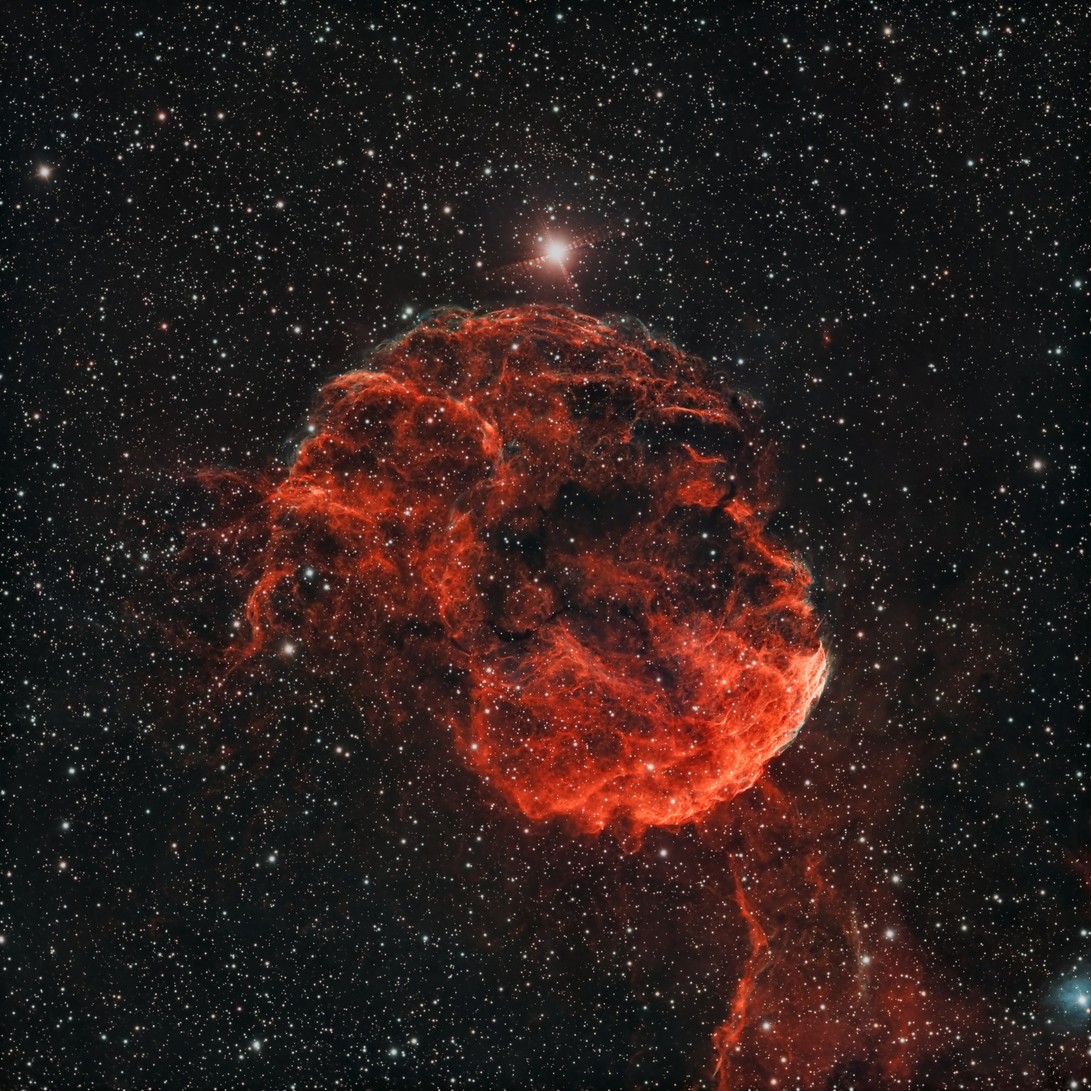
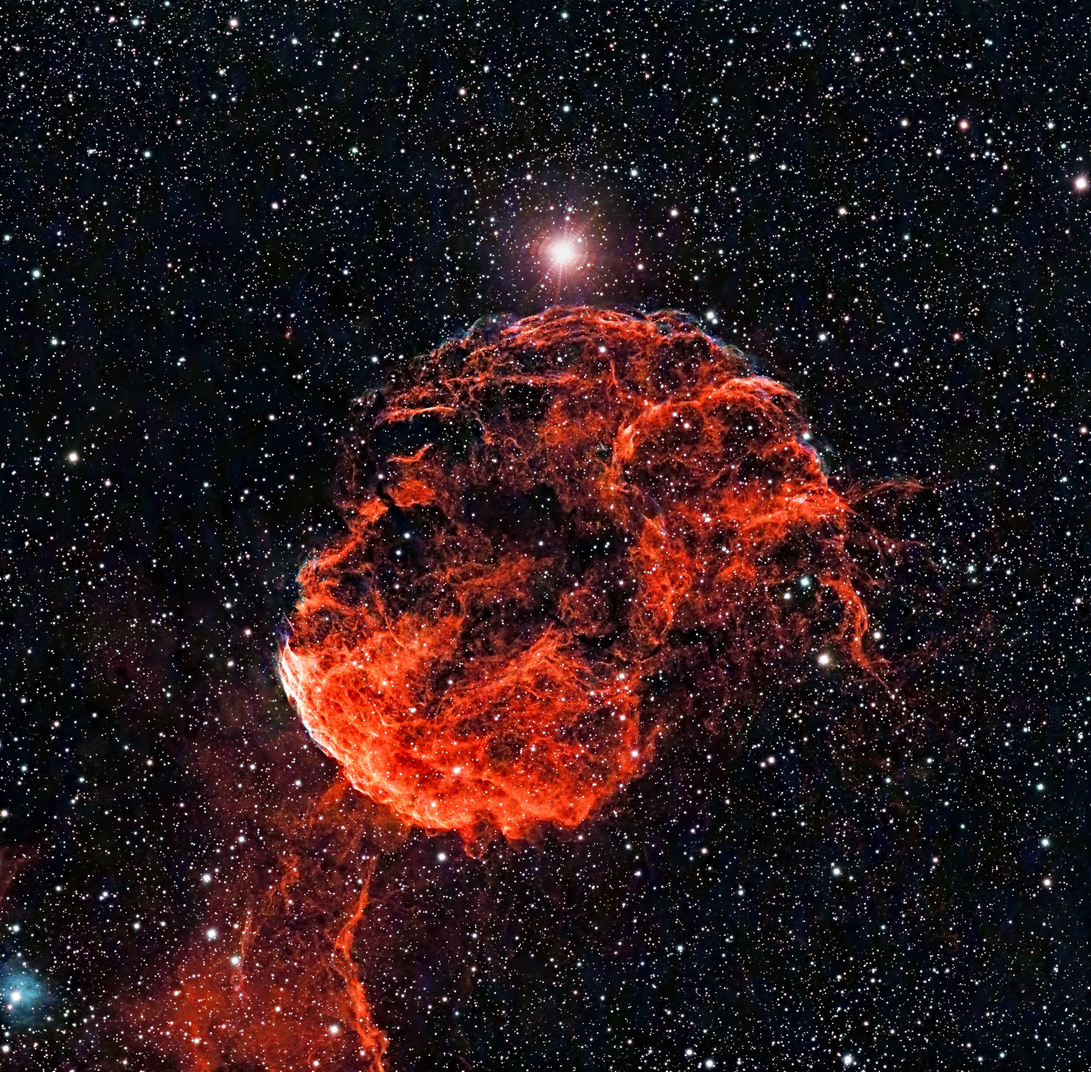
Jellyfish: 2024 combined 300 s + 120 s stack (13 h) replaces the mirrored 2022 version

diff --git a/jellyfish/index.html b/jellyfish/index.html
@@ -4,10 +4,10 @@
 <meta charset="utf-8">
 <meta name="viewport" content="width=device-width, initial-scale=1">
 <title>IC 443 · Jellyfish Nebula · Night Sky</title>
-<meta name="description" content="The expanding debris of a star that exploded in Gemini thousands of years ago, its bright eastern rim ploughing into a dense cloud.">
+<meta name="description" content="The expanding debris of a star that exploded in Gemini thousands of years ago, its bright eastern rim ploughing into a dense cloud. Nearly 13 hours over four November nights, combining 300 s and 120 s exposures.">
 <meta property="og:title" content="IC 443 · Jellyfish Nebula · Night Sky">
-<meta property="og:description" content="The expanding debris of a star that exploded in Gemini thousands of years ago, its bright eastern rim ploughing into a dense cloud.">
-<meta property="og:image" content="https://etotman.github.io/astro-gallery/img/jellyfish/display.jpg?v=5513019b"><meta name="twitter:card" content="summary_large_image">
+<meta property="og:description" content="The expanding debris of a star that exploded in Gemini thousands of years ago, its bright eastern rim ploughing into a dense cloud. Nearly 13 hours over four November nights, combining 300 s and 120 s exposures.">
+<meta property="og:image" content="https://etotman.github.io/astro-gallery/img/jellyfish/display.jpg?v=c690eaed"><meta name="twitter:card" content="summary_large_image">
 <meta name="theme-color" content="#07080b">
 <link rel="icon" href="../assets/icon.svg" type="image/svg+xml">
 <link rel="stylesheet" href="../assets/style.css?v=bd09f262">
@@ -18,31 +18,36 @@
 <div class="layout">
 <div class="col">
 <figure class="hero">
-  <button class="zoom" type="button" data-full="../img/jellyfish/full.jpg?v=7500bff7" data-w="2857" data-h="2857" aria-label="Open full resolution">
-    <img src="../img/jellyfish/display.jpg?v=5513019b" width="2400" height="2400" alt="IC 443 · Jellyfish Nebula">
+  <button class="zoom" type="button" data-full="../img/jellyfish/full.jpg?v=63214ea9" data-w="2828" data-h="2778" aria-label="Open full resolution">
+    <img src="../img/jellyfish/display.jpg?v=c690eaed" width="2400" height="2358" alt="IC 443 · Jellyfish Nebula">
   </button>
-  <figcaption>Click the image for full resolution · 2857 × 2857 px</figcaption>
+  <figcaption>Click the image for full resolution · 2828 × 2778 px</figcaption>
 </figure>
 <main class="info">
   <div class="head">
     <h1>IC 443 · Jellyfish Nebula</h1>
-    <p class="lede">The expanding debris of a star that exploded in Gemini thousands of years ago, its bright eastern rim ploughing into a dense cloud.</p>
+    <p class="lede">The expanding debris of a star that exploded in Gemini thousands of years ago, its bright eastern rim ploughing into a dense cloud. Nearly 13 hours over four November nights, combining 300 s and 120 s exposures.</p>
   </div>
-  <dl class="facts"><div><dt>Celestron RASA 8</dt><dd>203 mm aperture · 400 mm · f/2</dd></div><div><dt>Processed</dt><dd>7 February 2022</dd></div></dl>
+  <dl class="facts"><div><dt>Celestron RASA 8</dt><dd>203 mm aperture · 400 mm · f/2</dd></div><div><dt>Processed</dt><dd>17 November 2024</dd></div></dl>
   <section class="block">
-  <h2>Acquisition <small>8.3 h total captured</small></h2>
+  <h2>Acquisition <small>12.9 h total</small></h2>
   <div class="scroll"><table class="acq">
     <thead><tr><th>Channel</th><th>Integration</th><th>Equipment</th><th>Nights</th></tr></thead>
     <tbody><tr>
   <th>Dual-band</th>
-  <td><b>8.3 h</b><br><span>100 subs</span></td>
+  <td><b>5.5 h</b><br><span>66 × 300 s</span></td>
   <td>Celestron RASA 8<br><span>ASI533MC Pro · dual-band Ha/OIII filter</span></td>
-  <td>6 February 2022<br><span>moon 37 %</span></td>
+  <td>2 nights, 10 November – 12 November 2024</td>
+</tr><tr>
+  <th>Dual-band</th>
+  <td><b>7.4 h</b><br><span>223 × 120 s</span></td>
+  <td>Celestron RASA 8<br><span>ASI533MC Pro · dual-band Ha/OIII filter</span></td>
+  <td>2 nights, 13 November – 16 November 2024</td>
 </tr></tbody>
   </table></div>
 </section>
-  <section class="block"><h2>Processing</h2><p>Reprocessed 2026-11 from the linear stack: GraXpert AI background extraction, plate solve + SPCC (PixInsight), BlurXTerminator, NoiseXTerminator, stretch, StarXTerminator; starless layer pushed with saturation and local contrast; faint-area colour noise cleaned; stars screened back.</p></section>
-  <p class="dl"><a href="../img/jellyfish/full.jpg?v=7500bff7" download="jellyfish.jpg">Download full resolution (1.8 MB)</a></p>
+  <section class="block"><h2>Processing</h2><p>Stacked 2026-11 from the raw ASIAIR frames: each sub calibrated with the master dark matching its exposure and a master flat, debayered and plate-solved (ASTAP) for registration; the 120 s subs scaled to 300 s and every sub weighted by its exposure in a 3-sigma clipped integration. Then GraXpert, colour calibration, BlurXTerminator, NoiseXTerminator, stretch, StarXTerminator, saturation and local contrast, stars screened back. Final colour and tone in the style of the Flame + Horsehead edit: a cooler sky, lifted midtones, and increased saturation and local contrast.</p></section>
+  <p class="dl"><a href="../img/jellyfish/full.jpg?v=63214ea9" download="jellyfish.jpg">Download full resolution (2.8 MB)</a></p>
 </main>
 </div>
 <aside class="glance">

diff --git a/index.html b/index.html
@@ -131,9 +131,9 @@
   <img src="img/moon-2022/thumb.jpg?v=b60f9965" width="851" height="900" alt="First-quarter Moon" loading="lazy" decoding="async">
   <span class="cap"><strong>First-quarter Moon</strong><em></em></span>
 </a>
-<a class="tile" href="jellyfish/" style="--r:1.0000;background:#1c1c1c">
-  <img src="img/jellyfish/thumb.jpg?v=7c64e765" width="900" height="900" alt="IC 443 · Jellyfish Nebula" loading="lazy" decoding="async">
-  <span class="cap"><strong>IC 443 · Jellyfish Nebula</strong><em>8.3 h · RASA8</em></span>
+<a class="tile" href="jellyfish/" style="--r:1.0181;background:#1c1a1c">
+  <img src="img/jellyfish/thumb.jpg?v=00359045" width="900" height="884" alt="IC 443 · Jellyfish Nebula" loading="lazy" decoding="async">
+  <span class="cap"><strong>IC 443 · Jellyfish Nebula</strong><em>12.9 h · RASA8</em></span>
 </a>
 <a class="tile" href="ngc2359/" style="--r:1.0000;background:#1c1c1c">
   <img src="img/ngc2359/thumb.jpg?v=8199eecd" width="900" height="900" alt="NGC 2359 · Thor&#x27;s Helmet" loading="lazy" decoding="async">
